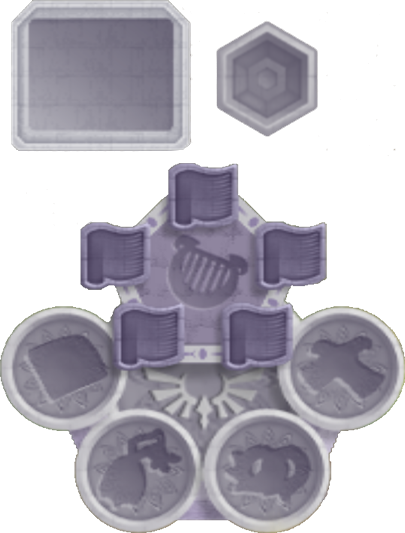
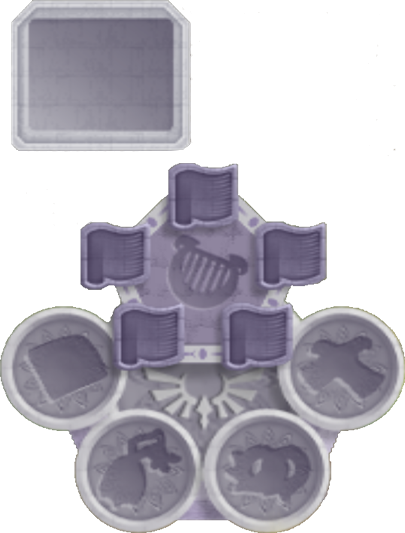
Add support for triforces, fix skip sky keep

Changed region(s): [[0.5333, 0.03, 0.8, 0.2702]]

diff --git a/src/itemTracker/Images.js b/src/itemTracker/Images.js
@@ -57,10 +57,10 @@ import noSSHBK from '../assets/dungeons/ssh_noBossKey.png';
 import sshBK from '../assets/dungeons/SS_Squid_Carving_Icon.png';
 import noFSBK from '../assets/dungeons/fs_noBossKey.png';
 import fsBK from '../assets/dungeons/SS_Mysterious_Crystals_Icon.png';
-import noTriforce from '../assets/dungeons/noTriforce.png';
-import oneTriforce from '../assets/dungeons/TriforcePiece.png';
-import twoTriforce from '../assets/dungeons/2_TriforcePiece.png';
-import threeTriforce from '../assets/dungeons/3_TriforcePiece.png';
+import noTriforce from '../assets/main quest/No_Triforce.png';
+import oneTriforce from '../assets/main quest/1_Triforce.png';
+import twoTriforce from '../assets/main quest/2_Triforce.png';
+import fullTriforce from '../assets/main quest/Full_Triforce.png';
 import noSword from '../assets/swords/No_Sword.png';
 import practiceSword from '../assets/swords/Practice Sword.png';
 import goddessSword from '../assets/swords/Goddess Sword.png';
@@ -97,8 +97,8 @@ import earrings from '../assets/main quest/Fireshield_Earrings.png';
 import noMitts from '../assets/main quest/No_Mitts.png';
 import diggingMitts from '../assets/main quest/Digging_Mitts.png';
 import mogmaMitts from '../assets/main quest/Mogma_Mitts.png';
-import noStone from '../assets/main quest/No_Stone.png';
-import stone from '../assets/main quest/Stone_of_Trials.png';
+import noStone from '../assets/dungeons/No_Stone_of_Trials.png';
+import stone from '../assets/dungeons/Stone_of_Trials.png';
 import noAmberTablet from '../assets/tablets/No_Amber_Tablet.png';
 import noRubyTablet from '../assets/tablets/No_Ruby_Tablet.png';
 import noEmeraldTablet from '../assets/tablets/No_Emerald_Tablet.png';
@@ -115,12 +115,15 @@ import noCourage from '../assets/songs/no_courage_grid.png';
 import noWisdom from '../assets/songs/no_wisdom_grid.png';
 import noPower from '../assets/songs/no_power_grid.png';
 import sothGrid from '../assets/songs/soth_grid.png';
+import noTriforceGrid from '../assets/main quest/No_Triforce_Grid.png';
+import oneTriforceGrid from '../assets/main quest/1_Triforce_Grid.png';
+import twoTriforceGrid from '../assets/main quest/2_Triforce_Grid.png';
+import fullTriforceGrid from '../assets/main quest/Full_Triforce_Grid.png';
 import noSothGrid from '../assets/songs/no_soth_grid.png';
 import noSailclothGrid from '../assets/main quest/no_sailcloth_grid.png';
 import noScaleGrid from '../assets/main quest/no_scale_grid.png';
 import noEarringsGrid from '../assets/main quest/no_earrings_grid.png';
 import noMittsGrid from '../assets/main quest/no_mitts_grid.png';
-import noStoneGrid from '../assets/main quest/no_stone_grid.png';
 import noLtf from '../assets/main quest/no_ltf.png';
 import ltf from '../assets/main quest/ltf.png';
 
@@ -236,11 +239,9 @@ const images = {
         noFSBK,
         fsBK,
     ],
-    Triforce: [
-        noTriforce,
-        oneTriforce,
-        twoTriforce,
-        threeTriforce,
+    'Stone of Trials': [
+        noStone,
+        stone,
     ],
     'Progressive Sword': [
         noSword,
@@ -328,9 +329,11 @@ const images = {
         diggingMitts,
         mogmaMitts,
     ],
-    'Stone of Trials': [
-        noStone,
-        stone,
+    Triforce: [
+        noTriforce,
+        oneTriforce,
+        twoTriforce,
+        fullTriforce,
     ],
     'Emerald Tablet': [
         noEmeraldTablet,
@@ -403,9 +406,11 @@ const images = {
         diggingMitts,
         mogmaMitts,
     ],
-    'Stone of Trials Grid': [
-        noStoneGrid,
-        stone,
+    'Triforce Grid': [
+        noTriforceGrid,
+        oneTriforceGrid,
+        twoTriforceGrid,
+        fullTriforceGrid,
     ],
     'Sailcloth Grid': [
         noSailclothGrid,

diff --git a/src/Options.js b/src/Options.js
@@ -201,7 +201,8 @@ export default class Options extends React.Component {
         this.changeStartingSword = this.changeStartingSword.bind(this);
         this.changeRaceMode = this.changeBinaryOption.bind(this, 'Empty Unrequired Dungeons');
         this.changeClosedThunderhead = this.changeBinaryOption.bind(this, 'Closed Thunderhead');
-        this.changeSkipSkykeep = this.changeBinaryOption.bind(this, 'skipSkykeep');
+        this.changeTriforceRequired = this.changeBinaryOption.bind(this, 'Triforce Required');
+        this.changeTriforceShuffle = this.changeTriforceShuffle.bind(this);
         this.changeHeroMode = this.changeBinaryOption.bind(this, 'Hero Mode');
         this.changeStartPouch = this.changeBinaryOption.bind(this, 'Start with Adventure Pouch');
         this.permalinkChanged = this.permalinkChanged.bind(this);
@@ -264,6 +265,12 @@ export default class Options extends React.Component {
         //     }
         // });
         this.state.settings.setOption('Shop Mode', value);
+        this.forceUpdate();
+    }
+
+    changeTriforceShuffle(e) {
+        const { value } = e.target;
+        this.state.settings.setOption('Triforce Shuffle', value);
         this.forceUpdate();
     }
 
@@ -504,11 +511,33 @@ export default class Options extends React.Component {
                             <Col>
                                 <FormCheck
                                     type="switch"
-                                    label="Skip Sky Keep"
-                                    id="skipSkykeep"
-                                    checked={this.state.settings.getOption('Skip Skykeep')}
-                                    onChange={this.changeSkipSkykeep}
+                                    label="Triforce Required"
+                                    id="triforceRequired"
+                                    checked={this.state.settings.getOption('Triforce Required')}
+                                    onChange={this.changeTriforceRequired}
                                 />
+                            </Col>
+                            <Col>
+                                <FormGroup>
+                                    <Row>
+                                        <Col xs={4}>
+                                            <FormLabel htmlFor="triforceShuffle">Triforce Shuffle</FormLabel>
+                                        </Col>
+                                        <Col xs={7}>
+                                            <FormControl
+                                                as="select"
+                                                id="triforceShuffle"
+                                                onChange={this.changeTriforceShuffle}
+                                                value={this.state.settings.getOption('Triforce Shuffle')}
+                                                custom
+                                            >
+                                                <option>Vanilla</option>
+                                                <option>Sky Keep</option>
+                                                <option>Anywhere</option>
+                                            </FormControl>
+                                        </Col>
+                                    </Row>
+                                </FormGroup>
                             </Col>
                             <Col>
                                 <FormCheck

diff --git a/src/itemTracker/SongBlock.js b/src/itemTracker/SongBlock.js
@@ -68,10 +68,10 @@ class SongBlock extends React.Component {
             left: wid / 2.5,
         };
 
-        const stoneStyle = {
+        const triforceStyle = {
             position: 'relative',
-            bottom: (wid / 0.809 + 600 / wid),
-            left: wid / 1.8,
+            bottom: (wid / 0.770 + 600 / wid),
+            left: wid / 1.85,
         };
 
         const emeraldTabletStyle = {
@@ -102,7 +102,7 @@ class SongBlock extends React.Component {
         const scaleWidth = this.props.styleProps.width / 5.2;
         const earringsWidth = this.props.styleProps.width / 5.2;
         const mittsWidth = this.props.styleProps.width / 5.2;
-        const sotWidth = this.props.styleProps.width / 4.6;
+        const triforceWidth = this.props.styleProps.width / 2.3;
         const emeraldWidth = this.props.styleProps.width / 5.2;
         const rubyWidth = this.props.styleProps.width / 3.85;
         const amberWidth = this.props.styleProps.width / 5.57;
@@ -142,8 +142,8 @@ class SongBlock extends React.Component {
                     <Item itemName="Goddess Harp" logic={this.props.logic} onChange={this.props.handleItemClick} imgWidth={harpWidth} />
                 </div>
 
-                <div id="stone" style={stoneStyle}>
-                    <Item itemName="Stone of Trials" logic={this.props.logic} onChange={this.props.handleItemClick} imgWidth={sotWidth} />
+                <div id="triforce" style={triforceStyle}>
+                    <Item itemName="Triforce" logic={this.props.logic} onChange={this.props.handleItemClick} imgWidth={triforceWidth} />
                 </div>
                 <div id="emeraldTablet" style={emeraldTabletStyle}>
                     <Item itemName="Emerald Tablet" logic={this.props.logic} onChange={this.props.handleItemClick} imgWidth={emeraldWidth} />

diff --git a/src/Tracker.js b/src/Tracker.js
@@ -310,7 +310,7 @@ class Tracker extends React.Component {
                                     handleDungeonUpdate={this.handleDungeonClick}
                                     items={this.state.trackerItems}
                                     logic={this.state.logic}
-                                    skyKeep={!this.state.settings.getOption('Skip Sky Keep')}
+                                    skyKeep={!(this.state.settings.getOption('Empty Unrequired Dungeons') & (!this.state.settings.getOption('Triforce Required') | this.state.settings.getOption('Triforce Shuffle') === 'Anywhere'))}
                                     entranceRando={this.state.settings.getOption('Randomize Entrances')}
                                     trialRando={this.state.settings.getOption('Randomize Silent Realms')}
                                     colorScheme={this.state.colorScheme}

diff --git a/src/itemTracker/DungeonTracker.js b/src/itemTracker/DungeonTracker.js
@@ -169,8 +169,8 @@ class DungeonTracker extends React.Component {
                     }
                     {
                         this.props.skyKeep && (
-                            <Col id="triforce">
-                                <Item itemName="Triforce" logic={this.props.logic} onChange={this.props.handleItemClick} imgWidth={colWidth} ignoreItemClass />
+                            <Col id="stoneOfTrials">
+                                <Item itemName="Stone of Trials" logic={this.props.logic} onChange={this.props.handleItemClick} imgWidth={colWidth} ignoreItemClass />
                             </Col>
                         )
                     }

diff --git a/src/itemTracker/GridTracker.js b/src/itemTracker/GridTracker.js
@@ -147,7 +147,7 @@ class GridTracker extends React.Component {
                             </div>
                         </td>
                         <td>
-                            <Item itemName="Stone of Trials" logic={this.props.logic} onChange={this.props.handleItemClick} imgWidth={imgWidth} grid ignoreItemClass />
+                            <Item itemName="Triforce" logic={this.props.logic} onChange={this.props.handleItemClick} imgWidth={imgWidth} grid ignoreItemClass />
                         </td>
                     </tr>
                     <tr>
